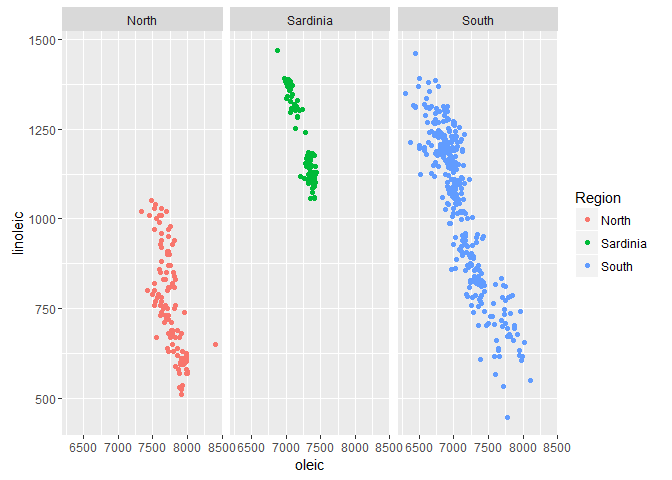
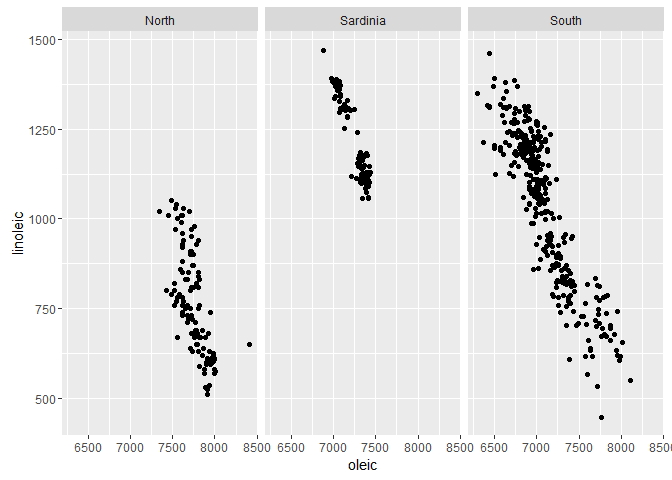
cm046

diff --git a/cm/cm046_scatterplot.md b/cm/cm046_scatterplot.md
@@ -136,43 +136,18 @@ Next, I'm going to separate the regions into different panels using `facet_wrap(
 
 ``` r
 # produce one panel per region 
-p <- p + facet_wrap(~Region)
+p <- ggplot(data = olives, aes(x = oleic, y = linoleic)) + 
+    geom_point() + 
+    facet_wrap(~Region)
 p
 ```
 
 ![](cm046_scatterplot_files/figure-markdown_github/cm046-10-1.png)
 
-The next version has the same three panels but I plot the full data set underneath the regional data to make it easier to compare the regional data to the other regions overall. First, I create identical regional panels that show all the data from all the regions using a gray data marker.
-
-![](../resources/images/code-icon.png)
-
-``` r
-# show all the data in every panel
-p <- facetshade(data = olives, aes(x = oleic, y = linoleic), f = ~Region) + 
-    geom_point(color = alpha("black", 0.05))
-p
-```
-
-![](cm046_scatterplot_files/figure-markdown_github/cm046-11-1.png)
-
--   `facetshade()` is the function that allows us to print all the data in every panel
--   `f = ...` argument of `facetshade)()` specifies the conditioning variable, in this case, Region.
--   `alpha()` specifies the color transparency level
-
-Next I overprint the regional data only in color.
-
-![](../resources/images/code-icon.png)
-
-``` r
-# print the data by region in color
-p <- p + geom_point(data = olives, color = "red")
-p
-```
-
-![](cm046_scatterplot_files/figure-markdown_github/cm046-12-1.png)
+With regions in separate panels, color coding is no longer needed.
 
 edit for publication
---------------------
+====================
 
 I'd like to edit the axis labels to include units, but they aren't given in the data set help page. I think the numbers are in mg of fatty acid per 10 g of oil. For example, the first entry in the oleic acid column is 7709. If that number has units of mg oleic / 10 g oil, then:
 
@@ -181,7 +156,7 @@ I'd like to edit the axis labels to include units, but they aren't given in the 
  = 0.7709 g oleic / g oil, i.e., gram/gram
  = 77.09%
 
-This percentage is within the expected range of 55-83%. Thus a data value of 7709 is a percentage of 77.09%. I just divide my columns by 100 to obtain fatty acid content as a percentage of the total mass of olive oil.
+This percentage is within the expected range of 55-83%. Thus a data value of 7709 actually represents 77.09%. Thus I will divide my columns by 100 to obtain fatty acid content as a percentage of the total mass of olive oil.
 
 ![](../resources/images/code-icon.png)
 
@@ -192,23 +167,61 @@ olives <- olives %>%
     mutate(linoleic = linoleic/100)
 ```
 
-New graph with the scales in percent, edit the axis labels, and add an individual regression for each region subset.
+New graph with the scales in percent; edit the axis labels.
 
 ![](../resources/images/code-icon.png)
 
 ``` r
-# final version 
-p <- facetshade(data = olives, aes(x = oleic, y = linoleic), f = . ~ Region) + 
-    geom_point(color = alpha("black", 0.05)) + 
-    geom_point(data = olives, color = "red") + 
-    labs(x = "Oleic acid (%)", y = "Linoleic acid (%)") + 
-    stat_smooth(data = olives, method = "lm")
+p <- ggplot(data = olives, aes(x = oleic, y = linoleic)) + 
+    geom_point() + 
+    facet_wrap(~Region) + 
+    labs(x = "Oleic acid (%)", y = "Linoleic acid (%)")
+p
+```
+
+![](cm046_scatterplot_files/figure-markdown_github/cm046-12-1.png)
+
+With both scales in percent, I would like a 1:1 aspect ratio so that a 5% change on one axis is the same length on the other axis.
+
+``` r
+p <- p + coord_fixed(ratio = 1)
+p
+```
+
+![](cm046_scatterplot_files/figure-markdown_github/cm046-13-1.png)
+
+That's sort of squished, so let's put the panels in a column instead of a row.
+
+``` r
+p <- p + facet_wrap(~Region, ncol = 1)
 p
 ```
 
 ![](cm046_scatterplot_files/figure-markdown_github/cm046-14-1.png)
 
-That's good enough.
+Lastly, I can add a regression to each panel.
+
+``` r
+p <- p + stat_smooth(data = olives, method = "lm")
+p
+```
+
+![](cm046_scatterplot_files/figure-markdown_github/cm046-15-1.png)
+
+As always,the graph could have been be drawn in one code chunk, e.g.,
+
+``` r
+ggplot(data = olives, aes(x = oleic, y = linoleic)) + 
+    geom_point() + 
+    facet_wrap(~Region, ncol = 1) + 
+    labs(x = "Oleic acid (%)", y = "Linoleic acid (%)") + 
+    coord_fixed(ratio = 1) + 
+    stat_smooth(data = olives, method = "lm")
+```
+
+Some publications are printed in two-column format. To keep the total page count down (some publications charge authors for extra pages), you can arrange your panels in a single column like this one and place them in a single column of the two-column format.
+
+Of course, if you publish electronically, e.g., writing your own blog, there is no page count nor any page breaks, so you can orient your figures for onscreen viewing.
 
 ------------------------------------------------------------------------
 
